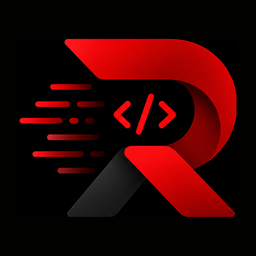
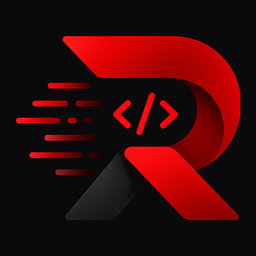
style(rail): drop brand box, pill-shaped nav rail
- transparent-background logo mark (no visible square)
- floating brand: remove border/bg chip, just mark + wordmark
- nav rail: rounded-full (semicircular ends); items rounded-full with a
  molten ring for the active state instead of the edge bar

diff --git a/components/AppRail.tsx b/components/AppRail.tsx
@@ -35,14 +35,14 @@ export default function AppRail() {
 
   return (
     <>
-      {/* Floating brand — top left */}
+      {/* Floating brand — top left (no box, just the mark + wordmark) */}
       <Link
         href="/dashboard"
-        className={`fixed top-4 left-4 z-50 flex items-center gap-2 border border-white/12 bg-ink-2 px-2.5 py-1.5 shadow-[0_8px_28px_-6px_rgba(0,0,0,0.7)] transition-all duration-500 hover:border-molten/40 ${
+        className={`fixed top-4 left-4 z-50 flex items-center gap-2 transition-all duration-500 hover:opacity-70 ${
           mounted ? 'opacity-100 translate-y-0' : 'opacity-0 -translate-y-2'
         }`}
       >
-        <RecastMark className="h-6 w-6" />
+        <RecastMark className="h-7 w-7" />
         <span className="font-mono font-bold text-[11px] tracking-[0.22em] uppercase text-bone">Recast</span>
       </Link>
 
@@ -67,7 +67,7 @@ export default function AppRail() {
       {/* Icon rail — left on desktop, bottom bar on mobile */}
       <nav
         aria-label="Primary"
-        className={`fixed z-40 flex items-center gap-1 border border-white/12 bg-ink-2 p-1.5 shadow-[0_12px_40px_-8px_rgba(0,0,0,0.75)] transition-all duration-500
+        className={`fixed z-40 flex items-center gap-1 rounded-full border border-white/12 bg-ink-2 p-1.5 shadow-[0_12px_40px_-8px_rgba(0,0,0,0.75)] transition-all duration-500
           left-1/2 bottom-4 -translate-x-1/2 flex-row
           md:left-4 md:top-1/2 md:bottom-auto md:translate-x-0 md:-translate-y-1/2 md:flex-col
           ${mounted ? 'opacity-100 scale-100' : 'opacity-0 scale-95'}`}
@@ -79,18 +79,16 @@ export default function AppRail() {
               key={label}
               href={href}
               aria-label={label}
-              className={`group relative grid h-10 w-10 place-items-center transition-colors ${
-                active ? 'text-bone bg-white/[0.06]' : 'text-bone/55 hover:text-bone hover:bg-white/[0.05]'
+              className={`group relative grid h-10 w-10 place-items-center rounded-full transition-colors ${
+                active
+                  ? 'text-molten bg-molten/10 ring-1 ring-inset ring-molten/50'
+                  : 'text-bone/55 hover:text-bone hover:bg-white/[0.05]'
               }`}
             >
-              {/* active molten bar */}
-              {active && (
-                <span className="absolute md:left-0 md:top-1.5 md:bottom-1.5 md:w-[2px] max-md:bottom-0 max-md:left-1.5 max-md:right-1.5 max-md:h-[2px] bg-molten" />
-              )}
               <Icon className="w-[18px] h-[18px]" strokeWidth={active ? 2.5 : 2} />
 
               {/* Hover-expand label (desktop rail only) */}
-              <span className="pointer-events-none absolute left-full ml-3 hidden md:block whitespace-nowrap border border-white/12 bg-ink-2 px-2.5 py-1 mono-label !text-[9px] !text-bone opacity-0 -translate-x-1 transition-all duration-150 group-hover:opacity-100 group-hover:translate-x-0">
+              <span className="pointer-events-none absolute left-full ml-3 hidden md:block whitespace-nowrap rounded-full border border-white/12 bg-ink-2 px-2.5 py-1 mono-label !text-[9px] !text-bone opacity-0 -translate-x-1 transition-all duration-150 group-hover:opacity-100 group-hover:translate-x-0">
                 {label}
               </span>
             </Link>
